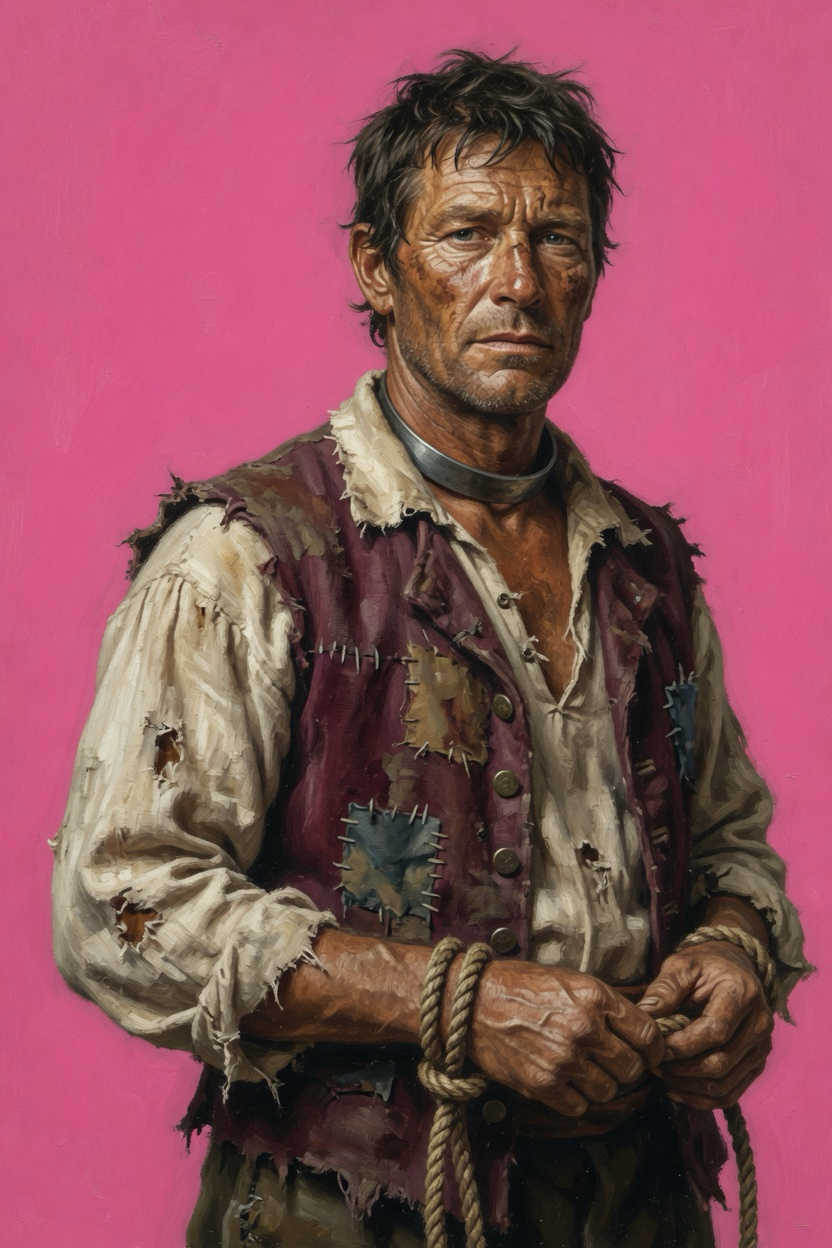
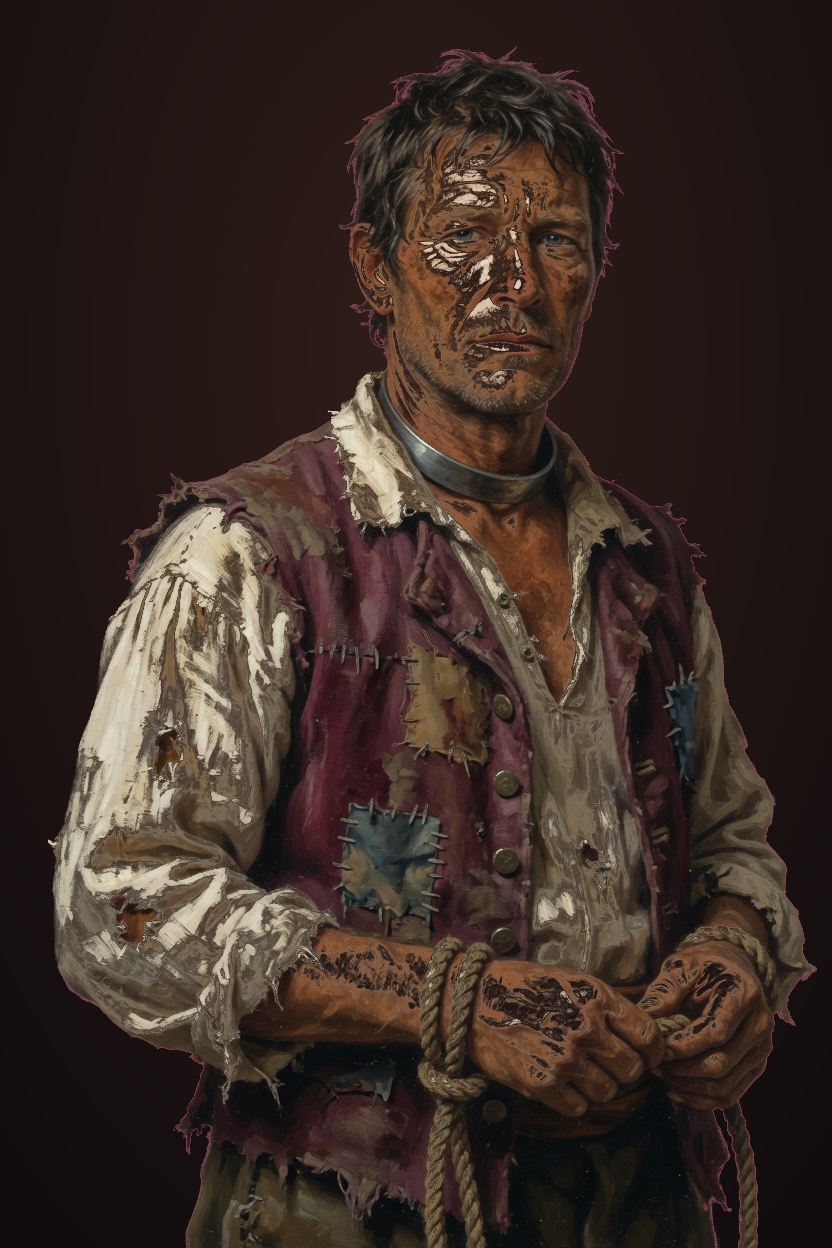
提交

diff --git a/src/render/board.ts b/src/render/board.ts
@@ -77,7 +77,7 @@ function cellKey(col: number, row: number): string {
   return `${col},${row}`;
 }
 
-function roundRect(
+function addRoundRect(
   g: CanvasRenderingContext2D,
   x: number,
   y: number,
@@ -86,13 +86,51 @@ function roundRect(
   r: number,
 ): void {
   const rr = Math.max(0, Math.min(r, w / 2, h / 2));
-  g.beginPath();
   g.moveTo(x + rr, y);
   g.arcTo(x + w, y, x + w, y + h, rr);
   g.arcTo(x + w, y + h, x, y + h, rr);
   g.arcTo(x, y + h, x, y, rr);
   g.arcTo(x, y, x + w, y, rr);
   g.closePath();
+}
+
+function roundRect(
+  g: CanvasRenderingContext2D,
+  x: number,
+  y: number,
+  w: number,
+  h: number,
+  r: number,
+): void {
+  g.beginPath();
+  addRoundRect(g, x, y, w, h, r);
+}
+
+/** Arc-length sampling keeps the enchanted threads continuous around corners. */
+function rimPoint(distance: number, w: number, h: number, radius: number): { x: number; y: number; nx: number; ny: number } {
+  const r = Math.min(radius, w / 2, h / 2);
+  const arc = Math.PI * r / 2;
+  const perimeter = 2 * (w + h - 4 * r) + 4 * arc;
+  let d = ((distance % perimeter) + perimeter) % perimeter;
+  const lengths = [w - 2 * r, h - 2 * r, w - 2 * r, h - 2 * r];
+  const starts = [[r, 0], [w, r], [w - r, h], [0, h - r]];
+  const centers = [[w - r, r], [w - r, h - r], [r, h - r], [r, r]];
+  for (let side = 0; side < 4; side++) {
+    const angle = side * Math.PI / 2;
+    const nx = Math.sin(angle);
+    const ny = -Math.cos(angle);
+    if (d <= lengths[side]!) return {
+      x: starts[side]![0]! + Math.cos(angle) * d,
+      y: starts[side]![1]! + Math.sin(angle) * d, nx, ny,
+    };
+    d -= lengths[side]!;
+    if (d <= arc) {
+      const a = angle - Math.PI / 2 + d / r;
+      return { x: centers[side]![0]! + Math.cos(a) * r, y: centers[side]![1]! + Math.sin(a) * r, nx: Math.cos(a), ny: Math.sin(a) };
+    }
+    d -= arc;
+  }
+  return { x: r, y: 0, nx: 0, ny: -1 };
 }
 
 function hitCell(px: number, py: number, s: BoardSettings): Cell | null {
@@ -113,6 +151,9 @@ export class StoneBoard {
   private readonly fx = new Map<string, TileFx>();
   private pressed: Cell | null = null;
   private hovered: Cell | null = null;
+  private wantDropGlow = 0;
+  private dropGlow = 0;
+  private dropSpin = 0;
   private readonly mask: HTMLCanvasElement;
   private readonly maskCtx: CanvasRenderingContext2D;
   private readonly iconBuf: HTMLCanvasElement;
@@ -144,6 +185,11 @@ export class StoneBoard {
       loadImage(GOLD_URL),
     ]);
     return new StoneBoard(tiles, attackIcon, goldIcon);
+  }
+
+  /** Warm gold rim and a subtle traveling reflection while a card is held over the tray. */
+  setDropHighlight(on: boolean): void {
+    this.wantDropGlow = on ? 1 : 0;
   }
 
   pointerDown(px: number, py: number, s: BoardSettings): void {
@@ -211,6 +257,8 @@ export class StoneBoard {
   update(dt: number): void {
     const k = 1 - Math.exp(-14 * dt);
     const hk = 1 - Math.exp(-12 * dt);
+    this.dropGlow += (this.wantDropGlow - this.dropGlow) * hk;
+    if (this.dropGlow > 0.01) this.dropSpin = (this.dropSpin + dt * 0.32) % (Math.PI * 2);
     for (const fx of this.fx.values()) {
       fx.squash += (fx.wantSquash - fx.squash) * k;
       fx.hover += (fx.wantHover - fx.hover) * hk;
@@ -246,6 +294,146 @@ export class StoneBoard {
     }
     for (const cell of rest) this.drawTile(g, s, ox, oy, pitch, cell);
     for (const cell of popping) this.drawTile(g, s, ox, oy, pitch, cell);
+    this.drawDropGlow(g, s, ox, oy, spanW, spanH);
+  }
+
+  private drawDropGlow(
+    g: CanvasRenderingContext2D,
+    s: BoardSettings,
+    ox: number,
+    oy: number,
+    spanW: number,
+    spanH: number,
+  ): void {
+    const glow = this.dropGlow;
+    if (glow < 0.01) return;
+    const pad = s.trayPad;
+    const x = ox - pad;
+    const y = oy - pad;
+    const w = spanW + pad * 2;
+    const h = spanH + pad * 2;
+    const time = this.dropSpin;
+    const breath = 0.88 + 0.12 * Math.sin(time * 6);
+    const perimeter = 2 * (w + h - 40) + 20 * Math.PI;
+    const samples = Math.ceil(perimeter / 5);
+    const points = Array.from({ length: samples }, (_, i) => rimPoint(i / samples * perimeter, w, h, 10));
+    g.save();
+    g.globalCompositeOperation = 'source-over';
+    g.lineJoin = 'round';
+
+    // All energy is outside the tray; the playable surface stays legible.
+    g.save();
+    g.beginPath();
+    g.rect(x - 72, y - 72, w + 144, h + 144);
+    addRoundRect(g, x, y, w, h, 10);
+    g.clip('evenodd');
+    for (let spread = 52; spread >= 4; spread -= 4) {
+      g.globalAlpha = glow * breath * 0.11 * Math.pow(1 - spread / 60, 1.4);
+      g.strokeStyle = spread > 24 ? '#dc6315' : '#ffb62e';
+      g.lineWidth = spread * 2;
+      roundRect(g, x, y, w, h, 10);
+      g.stroke();
+    }
+
+    // Filled, irregular ribbons produce a flame silhouette rather than neon wires.
+    for (let layer = 0; layer < 3; layer++) {
+      g.beginPath();
+      for (let i = 0; i < samples; i++) {
+        const phase = i / samples * Math.PI * 2;
+        const p = points[i]!;
+        const wave = Math.sin(phase * 19 - time * 10 + layer * 1.8);
+        const fine = Math.sin(phase * 37 + time * 14);
+        const crest = Math.pow(0.5 + 0.5 * Math.sin(phase * 7 - time * 4), 3);
+        const offset = (8 + 7 * wave + 3 * fine + 22 * crest) * (1 - layer * 0.27);
+        const px = x + p.x + p.nx * Math.max(2, offset);
+        const py = y + p.y + p.ny * Math.max(2, offset);
+        if (i === 0) g.moveTo(px, py);
+        else g.lineTo(px, py);
+      }
+      g.closePath();
+      addRoundRect(g, x, y, w, h, 10);
+      g.fillStyle = ['#e97814', '#ffb62f', '#ffe394'][layer]!;
+      g.globalAlpha = glow * breath * [0.24, 0.3, 0.42][layer]!;
+      g.fill('evenodd');
+    }
+
+    // Bright traveling crests have a soft body and a thin gold core.
+    const sheen = g.createConicGradient(time, x + w / 2, y + h / 2);
+    for (const [stop, alpha] of [[0, 0.12], [0.14, 0.3], [0.22, 1], [0.3, 0.12], [0.64, 0.3], [0.72, 1], [0.8, 0.12], [1, 0.12]]) {
+      sheen.addColorStop(stop!, `rgba(255, 225, 143, ${alpha})`);
+    }
+    g.beginPath();
+    for (let i = 0; i <= samples; i++) {
+      const phase = i / samples * Math.PI * 2;
+      const p = points[i % samples]!;
+      const offset = 5 + 2.5 * Math.sin(phase * 13 - time * 8) + 1.5 * Math.sin(phase * 29 + time * 6);
+      const px = x + p.x + p.nx * offset;
+      const py = y + p.y + p.ny * offset;
+      if (i === 0) g.moveTo(px, py);
+      else g.lineTo(px, py);
+    }
+    g.closePath();
+    g.strokeStyle = sheen;
+    g.globalAlpha = glow * 0.35;
+    g.lineWidth = 9;
+    g.stroke();
+    g.globalAlpha = glow;
+    g.lineWidth = 1.8;
+    g.stroke();
+
+    // Deterministic embers drift away from the boundary and fade before wrapping.
+    const emberCount = Math.min(64, Math.ceil(perimeter / 48));
+    for (let i = 0; i < emberCount; i++) {
+      const seed = i * 2.399963;
+      const life = ((time / (Math.PI * 2) * 6 + i * 0.618034) % 1);
+      const p = rimPoint(i / emberCount * perimeter + Math.sin(seed) * 28, w, h, 10);
+      const drift = 9 + life * (24 + 20 * (0.5 + 0.5 * Math.sin(seed)));
+      const tangent = Math.sin(life * 5 + seed) * 7;
+      const px = x + p.x + p.nx * drift - p.ny * tangent;
+      const py = y + p.y + p.ny * drift + p.nx * tangent;
+      g.globalAlpha = glow * Math.sin(life * Math.PI) * 0.8;
+      g.fillStyle = '#ffcb64';
+      g.beginPath();
+      g.ellipse(px, py, 1.2, 2.8 * (1 - life) + 0.5, seed, 0, Math.PI * 2);
+      g.fill();
+    }
+    g.restore();
+
+    // The original thin metal edge remains visible under the spell.
+    g.globalAlpha = glow;
+    g.strokeStyle = '#f6cd78';
+    g.lineWidth = 1.7;
+    roundRect(g, x, y, w, h, 10);
+    g.stroke();
+
+    const sealSize = Math.min(13, w / 8, h / 8);
+    for (const [cx, cy] of [[x - 5, y - 5], [x + w + 5, y - 5], [x + w + 5, y + h + 5], [x - 5, y + h + 5]]) {
+      g.save();
+      g.translate(cx!, cy!);
+      const aura = g.createRadialGradient(0, 0, 1, 0, 0, sealSize * 3);
+      aura.addColorStop(0, 'rgba(255, 219, 126, 0.8)');
+      aura.addColorStop(0.3, 'rgba(255, 166, 38, 0.4)');
+      aura.addColorStop(1, 'rgba(240, 107, 16, 0)');
+      g.globalAlpha = glow * breath;
+      g.fillStyle = aura;
+      g.fillRect(-sealSize * 3, -sealSize * 3, sealSize * 6, sealSize * 6);
+      g.rotate(Math.PI / 4);
+      g.fillStyle = '#573018';
+      g.strokeStyle = '#ffdb86';
+      g.lineWidth = 1.5;
+      g.fillRect(-sealSize / 2, -sealSize / 2, sealSize, sealSize);
+      g.strokeRect(-sealSize / 2, -sealSize / 2, sealSize, sealSize);
+      g.beginPath();
+      g.arc(0, 0, sealSize, time * 2, time * 2 + Math.PI * 0.7);
+      g.stroke();
+      g.beginPath();
+      g.arc(0, 0, sealSize, time * 2 + Math.PI, time * 2 + Math.PI * 1.7);
+      g.stroke();
+      g.fillStyle = '#fff0b6';
+      g.fillRect(-2, -2, 4, 4);
+      g.restore();
+    }
+    g.restore();
   }
 
   private fxOf(cell: Cell): TileFx {

diff --git a/src/ui/BattleView.ts b/src/ui/BattleView.ts
@@ -14,7 +14,7 @@ type CardNode = {
   press: number; release: number;
   state: 'hand' | 'play' | 'discard'; elapsed: number; delay: number;
 };
-const ART = { hero: '/assets/chars/hero.png', foe: '/assets/chars/foe.png', sword: '/assets/icons/attack.png', slave: '/assets/chars/slave.png' };
+const ART = { hero: '/assets/chars/hero.png', foe: '/assets/chars/foe.png', sword: '/assets/icons/attack.png', slave: '/assets/chars/slave.png?v=2' };
 const DRAW_POSE: Pose = { x: 245, y: 965, angle: -24, scale: 0.32 };
 const DISCARD_POSE: Pose = { x: 1590, y: 965, angle: 24, scale: 0.32 };
 const PLAY_FLIGHT = 0.34;
@@ -221,9 +221,16 @@ export class BattleView {
     this.placementTarget.classList.toggle('is-invalid', occupied);
     this.placementTarget.textContent = occupied ? '已占用' : '放置';
   }
+
+  private syncDropHighlight(x: number, y: number): void {
+    const holding = !!(this.drag?.moved) || this.selected !== null;
+    this.board.setDropHighlight(holding && isBoardArea(this.settings, x, y));
+  }
+
   private pointerMove(event: PointerEvent): void {
     const p = this.point(event);
     if (this.selected !== null) this.previewTarget(p.x, p.y);
+    this.syncDropHighlight(p.x, p.y);
     if (!this.drag) {
       if (!this.expanded || this.battle.phase !== 'player' || !this.pileDialog.hidden || !this.result.hidden) return;
       const count = this.battle.hand.length;
@@ -241,6 +248,7 @@ export class BattleView {
       this.setExpanded(false);
     }
     this.previewTarget(p.x, p.y);
+    this.syncDropHighlight(p.x, p.y);
   }
   private pointerUp(event: PointerEvent): void {
     const drag = this.drag;
@@ -249,6 +257,7 @@ export class BattleView {
     this.drag = null;
     this.root.classList.remove('is-dragging');
     this.intent.classList.remove('is-targeted');
+    this.board.setDropHighlight(false);
     const node = this.nodes.get(drag.id);
     if (node?.element.hasPointerCapture(event.pointerId)) node.element.releasePointerCapture(event.pointerId);
     if (node) node.release = 0;
@@ -274,6 +283,7 @@ export class BattleView {
     this.placementTarget.hidden = true;
     this.root.classList.remove('is-dragging');
     this.intent.classList.remove('is-targeted');
+    this.board.setDropHighlight(false);
     this.setExpanded(true);
     this.message(message);
   }
@@ -291,6 +301,7 @@ export class BattleView {
     this.placementTarget.hidden = true;
     this.root.classList.remove('is-dragging');
     this.intent.classList.remove('is-targeted');
+    this.board.setDropHighlight(false);
   }
 
   /** Placement consumes the click before the board handles ordinary hover feedback. */
